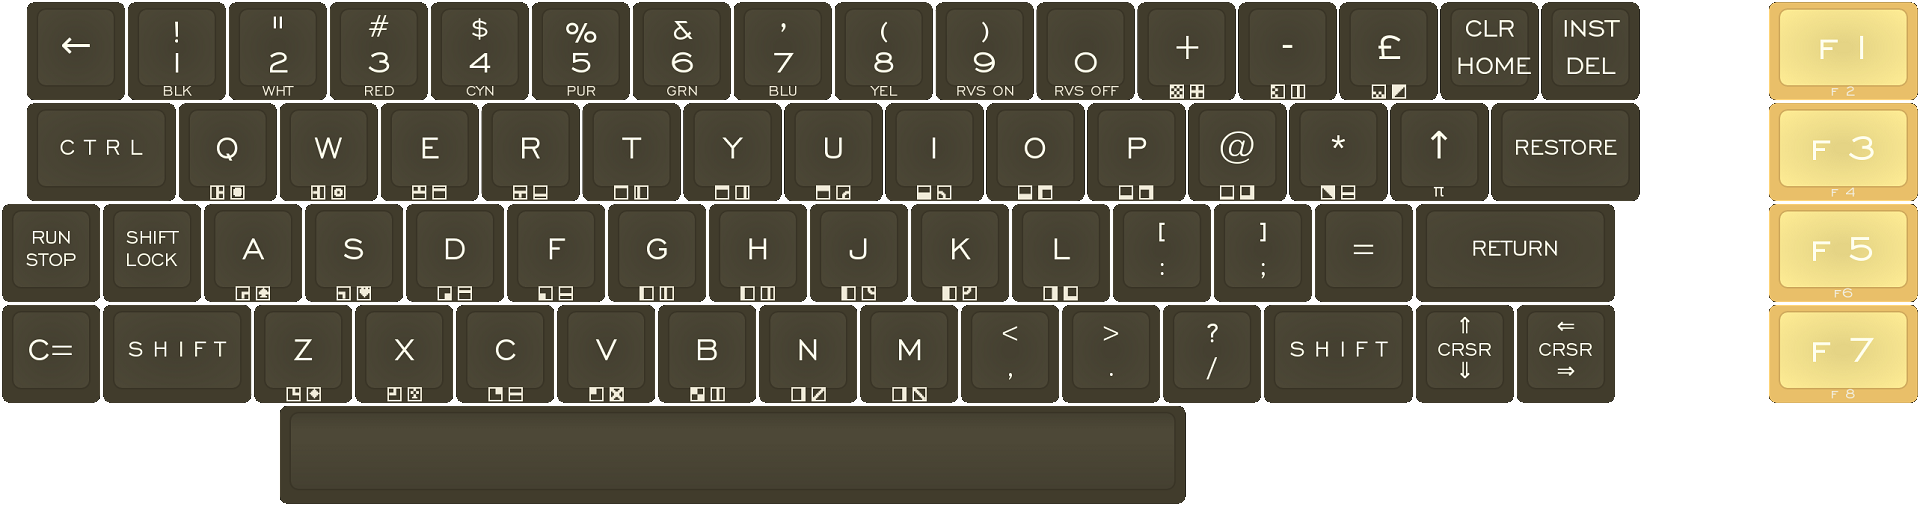
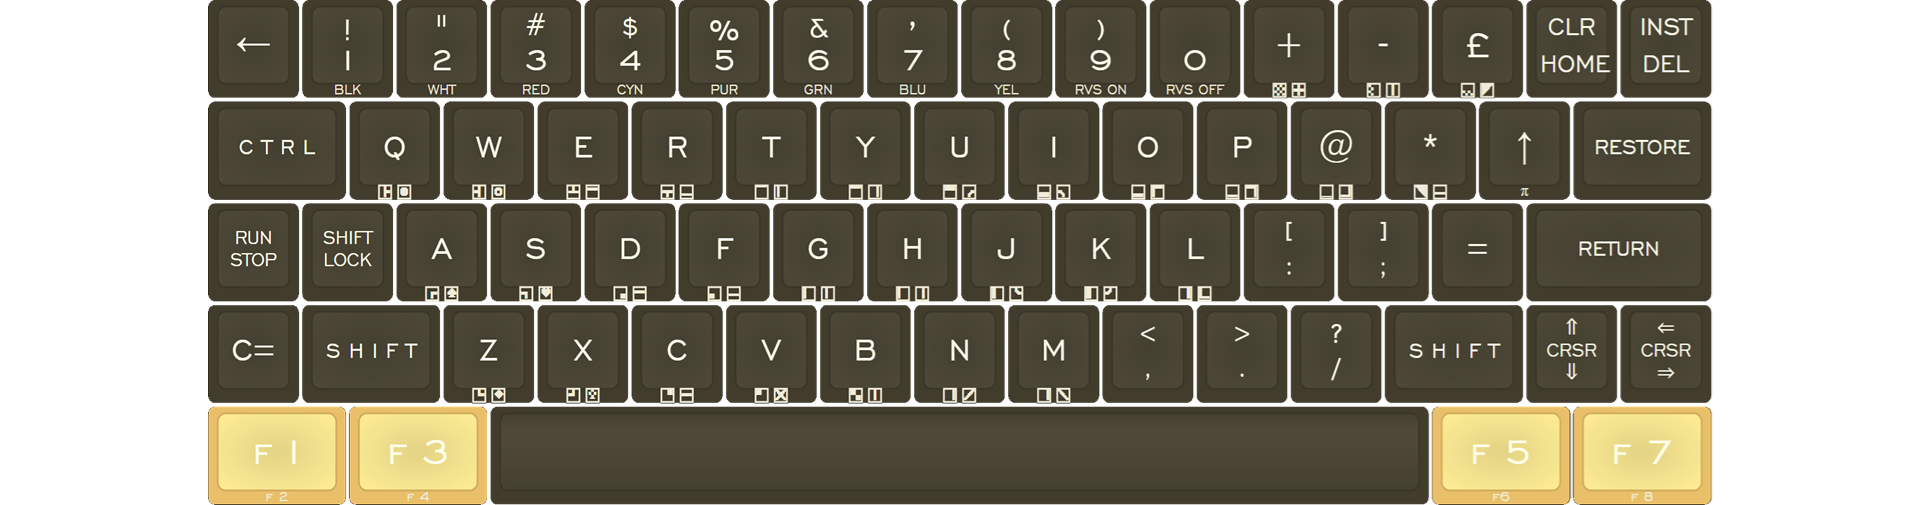
Updated the landscape keyboard size and placement.

diff --git a/core/src/main/java/emu/jvic/KeyboardType.java b/core/src/main/java/emu/jvic/KeyboardType.java
@@ -18,17 +18,17 @@ public enum KeyboardType {
 
       LANDSCAPE(
             new Integer[][] {
-              { null, Keys.LEFT, Keys.LEFT, Keys.LEFT, Keys.LEFT, Keys.NUM_1, Keys.NUM_1, Keys.NUM_1, Keys.NUM_1, Keys.NUM_2, Keys.NUM_2, Keys.NUM_2, Keys.NUM_2, Keys.NUM_3, Keys.NUM_3, Keys.NUM_3, Keys.NUM_3, Keys.NUM_4, Keys.NUM_4, Keys.NUM_4, Keys.NUM_4, Keys.NUM_5, Keys.NUM_5, Keys.NUM_5, Keys.NUM_5, Keys.NUM_6, Keys.NUM_6, Keys.NUM_6, Keys.NUM_6, Keys.NUM_7, Keys.NUM_7, Keys.NUM_7, Keys.NUM_7, Keys.NUM_8, Keys.NUM_8, Keys.NUM_8, Keys.NUM_8, Keys.NUM_9, Keys.NUM_9, Keys.NUM_9, Keys.NUM_9, Keys.NUM_0, Keys.NUM_0, Keys.NUM_0, Keys.NUM_0, Keys.PLUS, Keys.PLUS, Keys.PLUS, Keys.PLUS, Keys.MINUS, Keys.MINUS, Keys.MINUS, Keys.MINUS, Keys.POUND, Keys.POUND, Keys.POUND, Keys.POUND, Keys.HOME, Keys.HOME, Keys.HOME, Keys.HOME, Keys.DEL, Keys.DEL, Keys.DEL, Keys.DEL, null, null, null, null, null, null, null, null, null, null, null },
-              { null, Keys.CONTROL_LEFT, Keys.CONTROL_LEFT, Keys.CONTROL_LEFT, Keys.CONTROL_LEFT, Keys.CONTROL_LEFT, Keys.CONTROL_LEFT, Keys.Q, Keys.Q, Keys.Q, Keys.Q, Keys.W, Keys.W, Keys.W, Keys.W, Keys.E, Keys.E, Keys.E, Keys.E, Keys.R, Keys.R, Keys.R, Keys.R, Keys.T, Keys.T, Keys.T, Keys.T, Keys.Y, Keys.Y, Keys.Y, Keys.Y, Keys.U, Keys.U, Keys.U, Keys.U, Keys.I, Keys.I, Keys.I, Keys.I, Keys.O, Keys.O, Keys.O, Keys.O, Keys.P, Keys.P, Keys.P, Keys.P, Keys.AT, Keys.AT, Keys.AT, Keys.AT, Keys.STAR, Keys.STAR, Keys.STAR, Keys.STAR, Keys.UP, Keys.UP, Keys.UP, Keys.UP, RESTORE, RESTORE, RESTORE, RESTORE, RESTORE, RESTORE, null, null, null, null, null, null, null, null, null, null, null },
-              { RUN_STOP, RUN_STOP, RUN_STOP, RUN_STOP, SHIFT_LOCK, SHIFT_LOCK, SHIFT_LOCK, SHIFT_LOCK, Keys.A, Keys.A, Keys.A, Keys.A, Keys.S, Keys.S, Keys.S, Keys.S, Keys.D, Keys.D, Keys.D, Keys.D, Keys.F, Keys.F, Keys.F, Keys.F, Keys.G, Keys.G, Keys.G, Keys.G, Keys.H, Keys.H, Keys.H, Keys.H, Keys.J, Keys.J, Keys.J, Keys.J, Keys.K, Keys.K, Keys.K, Keys.K, Keys.L, Keys.L, Keys.L, Keys.L, Keys.COLON, Keys.COLON, Keys.COLON, Keys.COLON, Keys.SEMICOLON, Keys.SEMICOLON, Keys.SEMICOLON, Keys.SEMICOLON, Keys.EQUALS, Keys.EQUALS, Keys.EQUALS, Keys.EQUALS, Keys.ENTER, Keys.ENTER, Keys.ENTER, Keys.ENTER, Keys.ENTER, Keys.ENTER, Keys.ENTER, Keys.ENTER, null, null, null, null, null, null, null, null, null, null, null, null },
-              { Keys.ALT_LEFT, Keys.ALT_LEFT, Keys.ALT_LEFT, Keys.ALT_LEFT, Keys.SHIFT_LEFT, Keys.SHIFT_LEFT, Keys.SHIFT_LEFT, Keys.SHIFT_LEFT, Keys.SHIFT_LEFT, Keys.SHIFT_LEFT, Keys.Z, Keys.Z, Keys.Z, Keys.Z, Keys.X, Keys.X, Keys.X, Keys.X, Keys.C, Keys.C, Keys.C, Keys.C, Keys.V, Keys.V, Keys.V, Keys.V, Keys.B, Keys.B, Keys.B, Keys.B, Keys.N, Keys.N, Keys.N, Keys.N, Keys.M, Keys.M, Keys.M, Keys.M, Keys.COMMA, Keys.COMMA, Keys.COMMA, Keys.COMMA, Keys.PERIOD, Keys.PERIOD, Keys.PERIOD, Keys.PERIOD, Keys.SLASH, Keys.SLASH, Keys.SLASH, Keys.SLASH, Keys.SHIFT_RIGHT, Keys.SHIFT_RIGHT, Keys.SHIFT_RIGHT, Keys.SHIFT_RIGHT, Keys.SHIFT_RIGHT, Keys.SHIFT_RIGHT, Keys.DOWN, Keys.DOWN, Keys.DOWN, Keys.DOWN, Keys.RIGHT, Keys.RIGHT, Keys.RIGHT, Keys.RIGHT, null, null, null, null, null, null, null, null, null, null, null, null },
-              { null, null, null, null, null, null, null, null, null, null, null, Keys.SPACE, Keys.SPACE, Keys.SPACE, Keys.SPACE, Keys.SPACE, Keys.SPACE, Keys.SPACE, Keys.SPACE, Keys.SPACE, Keys.SPACE, Keys.SPACE, Keys.SPACE, Keys.SPACE, Keys.SPACE, Keys.SPACE, Keys.SPACE, Keys.SPACE, Keys.SPACE, Keys.SPACE, Keys.SPACE, Keys.SPACE, Keys.SPACE, Keys.SPACE, Keys.SPACE, Keys.SPACE, Keys.SPACE, Keys.SPACE, Keys.SPACE, Keys.SPACE, Keys.SPACE, Keys.SPACE, Keys.SPACE, Keys.SPACE, Keys.SPACE, Keys.SPACE, Keys.SPACE, null, null, null, null, null, null, null, null, null, null, null, null, null, null, null, null, null, null, null, null, null, null, null }
+              { Keys.LEFT, Keys.LEFT, Keys.NUM_1, Keys.NUM_1, Keys.NUM_2, Keys.NUM_2, Keys.NUM_3, Keys.NUM_3, Keys.NUM_4, Keys.NUM_4, Keys.NUM_5, Keys.NUM_5, Keys.NUM_6, Keys.NUM_6, Keys.NUM_7, Keys.NUM_7, Keys.NUM_8, Keys.NUM_8, Keys.NUM_9, Keys.NUM_9, Keys.NUM_0, Keys.NUM_0, Keys.PLUS, Keys.PLUS, Keys.MINUS, Keys.MINUS, Keys.POUND, Keys.POUND, Keys.HOME, Keys.HOME, Keys.DEL, Keys.DEL },
+              { Keys.CONTROL_LEFT, Keys.CONTROL_LEFT, Keys.CONTROL_LEFT, Keys.Q, Keys.Q, Keys.W, Keys.W, Keys.E, Keys.E, Keys.R, Keys.R, Keys.T, Keys.T, Keys.Y, Keys.Y, Keys.U, Keys.U, Keys.I, Keys.I, Keys.O, Keys.O, Keys.P, Keys.P, Keys.AT, Keys.AT, Keys.STAR, Keys.STAR, Keys.UP, Keys.UP, RESTORE, RESTORE, RESTORE },
+              { RUN_STOP, RUN_STOP, SHIFT_LOCK, SHIFT_LOCK, Keys.A, Keys.A, Keys.S, Keys.S, Keys.D, Keys.D, Keys.F, Keys.F, Keys.G, Keys.G, Keys.H, Keys.H, Keys.J, Keys.J, Keys.K, Keys.K, Keys.L, Keys.L, Keys.COLON, Keys.COLON, Keys.SEMICOLON, Keys.SEMICOLON, Keys.EQUALS, Keys.EQUALS, Keys.ENTER, Keys.ENTER, Keys.ENTER, Keys.ENTER },
+              { Keys.ALT_LEFT, Keys.ALT_LEFT, Keys.SHIFT_LEFT, Keys.SHIFT_LEFT, Keys.SHIFT_LEFT, Keys.Z, Keys.Z, Keys.X, Keys.X, Keys.C, Keys.C, Keys.V, Keys.V, Keys.B, Keys.B, Keys.N, Keys.N, Keys.M, Keys.M, Keys.COMMA, Keys.COMMA, Keys.PERIOD, Keys.PERIOD, Keys.SLASH, Keys.SLASH, Keys.SHIFT_RIGHT, Keys.SHIFT_RIGHT, Keys.SHIFT_RIGHT, Keys.DOWN, Keys.DOWN, Keys.RIGHT, Keys.RIGHT },
+              { Keys.F1, Keys.F1, Keys.F1, Keys.F3, Keys.F3, Keys.F3, Keys.SPACE, Keys.SPACE, Keys.SPACE, Keys.SPACE, Keys.SPACE, Keys.SPACE, Keys.SPACE, Keys.SPACE, Keys.SPACE, Keys.SPACE, Keys.SPACE, Keys.SPACE, Keys.SPACE, Keys.SPACE, Keys.SPACE, Keys.SPACE, Keys.SPACE, Keys.SPACE, Keys.SPACE, Keys.SPACE, Keys.F5, Keys.F5, Keys.F5, Keys.F7, Keys.F7, Keys.F7 }
             },
             "png/keyboard_landscape.png",
             0.5f,
-            110,
-            0,
-            -1,
+            230,
+            208,
+            1504,
             0
           ),
       PORTRAIT(
@@ -259,7 +259,7 @@ public enum KeyboardType {
         if (isLandscape()) {
             ViewportManager viewportManager = ViewportManager.getInstance();
             if (viewportManager.getVICScreenBase() > 0) {
-                return 135;
+                return renderOffset;
             } else {
                 return renderOffset;
             }
